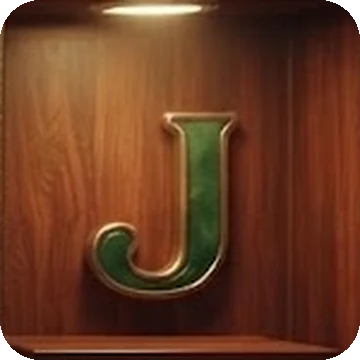
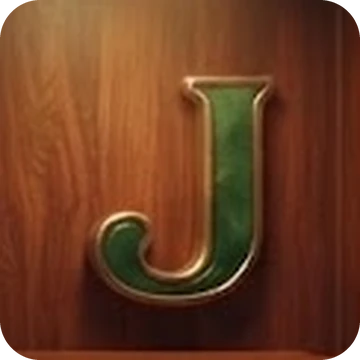
La Fortune : symboles recadrés, tas de pièces du Loup, rouleaux et bonus animés
- vignettes refaites : A K Q J centrés et plus grands, dragon / enveloppe / chats / lingots / lanterne entiers au
  centre avec leur décor flouté autour (IMG_V 2)
- le tas du bol empile la pièce d'or du Loup (assets/games/wolf/coin.webp)
- rouleaux plus longs (Reels : option durK), lueur dorée pendant le tour, flash à l'arrêt, poussière d'or
- Hold & Spin : chaque case vide devient un petit rouleau qui défile puis s'arrête colonne par colonne
- sw.js v30, affiche UPDATES

Claude-Session: https://claude.ai/code/session_017EaWtLoLTQhSDUGykommqC

diff --git a/games/fortune.js b/games/fortune.js
@@ -111,7 +111,7 @@ function startCoins(n = 6, R = Math.random) {
 /* ===END ENGINE */
 
 const BUY_HOLD = 46, BUY_MEGA = 245;
-const IMG_V = 1;
+const IMG_V = 2;
 const asset = (p) => window.__assets?.[p] || `${p}?v=${IMG_V}`; // single-file version: images are inlined
 const src = (n) => asset(`assets/games/fortune/${n}.webp`);
 const IMG = ['s0', 's1', 's2', 's3', 's4', 's5', 's6', 's7', 'wild', 'coin', 'scatter'];
@@ -123,18 +123,20 @@ const KEY = 'fortune_pots_v1';
 const load = () => { try { return JSON.parse(localStorage.getItem(KEY)) || {}; } catch { return {}; } };
 const save = (o) => { try { localStorage.setItem(KEY, JSON.stringify(o)); } catch { /* ignore */ } };
 
-// The pot drawn as a heap of gold coins in the bowl: the more it holds (in × the stake), the bigger the heap.
-function heapSVG(x) {
-  const n = x <= 0 ? 0 : Math.min(28, Math.round(3 + Math.sqrt(x) * 3.2));
+// The pot drawn as a heap of gold coins in the bowl (the gold coin of Le Loup, recycled): the more it holds
+// (in × the stake), the bigger the heap.
+const HEAP_COIN = asset('assets/games/wolf/coin.webp');
+function heapHTML(x) {
+  const n = x <= 0 ? 0 : Math.min(26, Math.round(3 + Math.sqrt(x) * 3));
   let s = '', k = 0;
   for (let row = 0; k < n; row++) {
-    const w = Math.max(1, 7 - row);
+    const w = Math.max(1, 6 - row);
     for (let j = 0; j < w && k < n; j++, k++) {
-      const cx = 50 + (j - (w - 1) / 2) * 12 + (row % 2 ? 3 : -3), cy = 92 - row * 7;
-      s += `<g transform="translate(${cx.toFixed(1)} ${cy})"><ellipse rx="7" ry="3.4" fill="#a16207"/><ellipse ry="3.4" rx="7" cy="-1.6" fill="url(#ftCoin)"/><rect x="-1.6" y="-3" width="3.2" height="2.4" fill="#92400e" opacity=".7"/></g>`;
+      const left = 50 + (j - (w - 1) / 2) * 15 + (row % 2 ? 4 : -4), bottom = row * 11, rot = ((k * 37) % 50) - 25;
+      s += `<img src="${HEAP_COIN}" alt="" draggable="false" style="left:${left.toFixed(1)}%;bottom:${bottom}%;transform:translateX(-50%) rotate(${rot}deg) scaleY(${(0.62 + (k % 3) * 0.08).toFixed(2)})">`;
     }
   }
-  return `<svg viewBox="0 0 100 100" preserveAspectRatio="xMidYMax meet" aria-hidden="true"><defs><linearGradient id="ftCoin" x1="0" y1="0" x2="1" y2="1"><stop offset="0" stop-color="#fff7d6"/><stop offset=".45" stop-color="#facc15"/><stop offset="1" stop-color="#b45309"/></linearGradient></defs>${s}</svg>`;
+  return s;
 }
 
 class FortuneGame extends BaseGame {
@@ -148,6 +150,7 @@ class FortuneGame extends BaseGame {
           <div class="ft-bowl"><div class="ft-heap"></div><b class="ft-pot"></b></div>
           <div class="ft-win"><div class="reels-host"></div><div class="ft-rows">${[0, 1, 2].map((r) => `<i data-row="${r}"></i>`).join('')}</div></div>
           <div class="ft-word"></div>
+          <div class="ft-dust">${Array.from({ length: 18 }, (_, k) => `<i style="left:${(k * 53) % 100}%;--dx:${((k * 29) % 60) - 30}px;animation-duration:${6 + (k % 5) * 1.7}s;animation-delay:-${(k * 1.3) % 9}s"></i>`).join('')}</div>
         </div></div>`,
       buys: [
         { id: 'hold', icon: '🪙', label: 'Hold & Spin · 6 pièces', desc: '6 pièces d’or verrouillées, 3 respins · MAJOR et JACKPOT en jeu · lignes ×2 et ×5', cost: (b) => b * BUY_HOLD },
@@ -157,7 +160,7 @@ class FortuneGame extends BaseGame {
     });
     this.vals = {}; this.mul = {};
     this.reels = new Reels(this.q('.reels-host'), {
-      cols: COLS, rows: ROWS, game: this, random: (c) => this.filler(c),
+      cols: COLS, rows: ROWS, game: this, random: (c) => this.filler(c), durK: 1.45,
       art: (v, i) => this.cellArt(v, i),
       cls: (v) => (v === COIN ? 'coin' : v === SCAT ? 'scat' : v === WILD ? 'wild' : v === BLANK ? 'blank' : `n${v}`),
     });
@@ -198,7 +201,7 @@ class FortuneGame extends BaseGame {
     }
     const potEl = this.q('.ft-pot'), heap = this.q('.ft-heap');
     if (potEl) potEl.textContent = me.pot > 0 ? fmtC(me.pot) : '';
-    if (heap) { const h = heapSVG(me.pot / this.bet); if (heap.dataset.h !== h) { heap.dataset.h = h; heap.innerHTML = h; } }
+    if (heap) { const h = heapHTML(me.pot / this.bet); if (heap.dataset.h !== h) { heap.dataset.h = h; heap.innerHTML = h; } }
   }
 
   word(t, cls = '') {
@@ -303,19 +306,7 @@ class FortuneGame extends BaseGame {
     await this.wait(600);
     for (const st of run.steps) {
       if (this.dead) return 0;
-      // empty cells shimmer, then the new coins drop in
-      this.reels.el.classList.add('ft-rolling'); sfx.spin?.();
-      await this.wait(this.turbo ? 380 : 700);
-      this.reels.el.classList.remove('ft-rolling');
-      for (const a of st.add) {
-        this.vals[a.i] = a.v; this.mul[a.i] = a.m;
-        this.reels.set(a.i, COIN);
-        const n = this.reels.cell(a.i);
-        n?.animate([{ transform: 'translateY(-120%) scale(.6)', opacity: 0 }, { transform: 'none', opacity: 1 }], { duration: 380, easing: 'cubic-bezier(.3,1.5,.5,1)' });
-        sfx.coin(); const p = center(n); fx.burst(p.x, p.y, 14, GOLD, 6);
-        if (typeof a.v === 'string') { this.word(a.v === 'jackpot' ? 'JACKPOT !' : 'MAJOR !', a.v); this.flash(a.v === 'jackpot' ? 'rgba(239,68,68,.6)' : 'rgba(34,197,94,.5)'); sfx.jackpot(); this.q(`.ft-jp.${a.v}`)?.classList.add('hot'); await this.wait(900); }
-        await this.wait(this.turbo ? 90 : 180);
-      }
+      await this.respinRoll(st.add);
       if (st.light) await this.lightRow(st.light);
       shown = this.sumNow(b);
       banner(st.left);
@@ -359,6 +350,37 @@ class FortuneGame extends BaseGame {
     await this.celebrate(won, { summary: mega ? 'MÉGA BONUS' : 'HOLD & SPIN', stake: b });
     this.vals = {}; this.mul = {};
     return won;
+  }
+
+  // One respin: every empty cell becomes a little reel of coins and blanks that rolls, then the cells stop one
+  // column after the other, on a new coin (it drops in and shines) or on nothing.
+  async respinRoll(add) {
+    const empties = [];
+    for (let i = 0; i < N; i++) if (!(i in this.vals)) empties.push(i);
+    const strip = Array.from({ length: 8 }, (_, k) => (k % 3 === 1 ? img('coin', 'ft-img ft-coin') : '<i class="ft-dot"></i>')).join('');
+    empties.forEach((i) => { const n = this.reels.cell(i); if (n) n.innerHTML = `<div class="ft-mini"><div class="ft-ministrip" style="animation-delay:-${((i * 0.13) % 0.4).toFixed(2)}s">${strip}${strip}</div></div>`; });
+    sfx.spin?.();
+    const byI = Object.fromEntries(add.map((a) => [a.i, a]));
+    await this.wait(this.turbo ? 300 : 650);
+    for (let c = 0; c < COLS; c++) {
+      for (const i of empties.filter((x) => Math.floor(x / ROWS) === c)) {
+        const a = byI[i];
+        if (a) {
+          this.vals[a.i] = a.v; this.mul[a.i] = a.m;
+          this.reels.set(a.i, COIN);
+          const n = this.reels.cell(a.i);
+          n?.animate([{ transform: 'translateY(-60%)', filter: 'blur(3px)' }, { transform: 'translateY(8%)', filter: 'none', offset: 0.7 }, { transform: 'none' }], { duration: 320, easing: 'ease-out' });
+          n?.classList.add('ft-new'); setTimeout(() => n?.classList.remove('ft-new'), 1200);
+          sfx.coin(); const p = center(n); fx.burst(p.x, p.y, 16, GOLD, 6);
+          if (typeof a.v === 'string') { this.word(a.v === 'jackpot' ? 'JACKPOT !' : 'MAJOR !', a.v); this.flash(a.v === 'jackpot' ? 'rgba(239,68,68,.6)' : 'rgba(34,197,94,.5)'); sfx.jackpot(); this.q(`.ft-jp.${a.v}`)?.classList.add('hot'); await this.wait(900); }
+        } else {
+          this.reels.set(i, BLANK);
+          this.reels.cell(i)?.animate([{ transform: 'translateY(-14%)' }, { transform: 'none' }], { duration: 200, easing: 'ease-out' });
+        }
+      }
+      sfx.reelStop?.(c);
+      await this.wait(this.turbo ? 90 : 190);
+    }
   }
 
   startMul(run, i) { return run.mul[i] ? this.firstOf(run, i) : 1; }

diff --git a/index.html b/index.html
@@ -8115,6 +8115,7 @@ __mods['updates.js'] = (() => {
 const { getGame } = __mods['games/index.js'];
 
 const UPDATES = [
+  { game: 'fortune', date: '2026-11-02', title: 'La Fortune plus vivante', items: ['Symboles recadrés : lettres, dragon, enveloppe, chats, lingots et lanterne bien centrés', 'Rouleaux qui défilent plus longtemps, avec une lueur dorée et un flash à chaque arrêt', 'Pendant le Hold & Spin, chaque case vide est un petit rouleau qui défile', 'Un vrai tas de pièces d’or dans le bol, et de la poussière d’or qui tombe'] },
   { game: 'fortune', date: '2026-11-02', title: 'Nouveau : La Fortune', isNew: true, items: ['Le nouvel an chinois : lanternes, dragon d’or WILD et 243 façons de gagner', 'Les pièces d’or montent dans le bol : le tas de pièces grandit jusqu’au prochain bonus', '6 pièces = HOLD & SPIN, avec les jackpots MAJOR et JACKPOT qui grimpent à chaque spin', 'Des lignes s’allument ×2 ou ×5 pendant le bonus', '4 scatters = MÉGA BONUS : chaque pièce vaut ×2 à ×5'] },
   { game: 'madwheel-online', date: '2026-11-02', title: 'Nouveau : La Roue Folle Online', isNew: true, items: ['La Roue Folle en multijoueur', 'Pose tes jetons et appuie sur PRÊT : la roue part quand tout le salon est prêt', 'Le Top Slot et les 4 bonus sont les mêmes pour tout le monde', 'Les mises et les gains des autres joueurs, et le chat du salon'] },
   { game: 'plateau-online', date: '2026-11-02', title: 'Nouveau : Le Plateau Online', isNew: true, items: ['Le Plateau en multijoueur', 'Pose tes jetons et appuie sur PRÊT : la roue part quand tout le salon est prêt', 'La case Chance et les dés du plateau sont les mêmes pour tout le monde', 'Les mises et les gains des autres joueurs, et le chat du salon'] },
@@ -10225,8 +10226,8 @@ __mods['core/reels.js'] = (() => {
 const { sfx } = __mods['audio.js'];
 
 class Reels {
-  constructor(host, { cols, rows, art, cls = () => '', random, game }) {
-    Object.assign(this, { cols, rows, art, clsOf: cls, random, game });
+  constructor(host, { cols, rows, art, cls = () => '', random, game, durK = 1 }) {
+    Object.assign(this, { cols, rows, art, clsOf: cls, random, game, durK });
     this.el = document.createElement('div');
     this.el.className = 'rs';
     this.el.style.setProperty('--cols', cols);
@@ -10258,7 +10259,7 @@ class Reels {
 
   async spin(vals, { tease = () => false, onStop = null } = {}) {
     const t = this.game?.turbo;
-    const base = t ? 300 : 620, step = t ? 70 : 160;
+    const base = (t ? 300 : 620) * this.durK, step = (t ? 70 : 160) * this.durK;
     let extra = 0;
     const jobs = [];
     for (let c = 0; c < this.cols; c++) {
@@ -10794,7 +10795,7 @@ const FILES = {
   vortex: ['vortex', 'games/impl/vortex.js', 'VortexGame', 'e23f21079d'],
   casse: ['casse', 'games/impl/casse.js', 'CasseGame', '0957d49ca3'],
   labo: ['labo', 'games/impl/labo.js', 'LaboGame', 'e6287e4258'],
-  fortune: ['fortune', 'games/impl/fortune.js', 'FortuneGame', '65c2e7e09f'],
+  fortune: ['fortune', 'games/impl/fortune.js', 'FortuneGame', 'bb85af3fad'],
   dragons: ['dragons', 'games/impl/dragons.js', 'DragonsGame', '2fcc40562a'],
   billets: ['billets', 'games/impl/billets.js', 'BilletsGame', '9f2d36628a'],
   taco: ['taco', 'games/impl/taco.js', 'PizzaGame', '171e756bb8'],
@@ -13520,8 +13521,23 @@ h1, h2, h3 { letter-spacing: -.01em; }
 .ft-cv.jp { top: auto; bottom: 2%; transform: translateX(-50%); font-size: calc(12cqh / var(--rows)); }
 .ft-m { position: absolute; right: 8%; top: 6%; padding: 0 .35em; border-radius: 3px; background: #dc2626; border: 1px solid #fde68a; font: 900 calc(12cqh / var(--rows)) KeCoin, Archivo, sans-serif; color: #fff; font-style: normal; }
 .rs-cell.blank { background: radial-gradient(circle, rgba(250, 204, 21, .06), transparent 70%); }
-.ft-rolling .rs-cell.blank { animation: ftRoll .35s ease-in-out infinite alternate; }
-@keyframes ftRoll { to { background: radial-gradient(circle, rgba(250, 204, 21, .3), transparent 70%); } }
+.ft-mini { position: absolute; inset: 6%; overflow: hidden; border-radius: 8px; background: linear-gradient(180deg, rgba(0, 0, 0, .55), rgba(60, 10, 0, .35), rgba(0, 0, 0, .55)); box-shadow: inset 0 0 0 1px rgba(250, 204, 21, .35); }
+.ft-ministrip { display: flex; flex-direction: column; align-items: center; animation: ftMini .38s linear infinite; filter: blur(1.5px); }
+.ft-ministrip > * { flex: 0 0 auto; height: calc(84cqh / var(--rows)) !important; display: grid; place-items: center; margin-bottom: 6%; }
+.ft-ministrip .ft-dot { width: 22%; aspect-ratio: 1; border-radius: 50%; background: rgba(250, 204, 21, .18); height: auto !important; margin: 34% 0; }
+@keyframes ftMini { to { transform: translateY(-50%); } }
+.rs-cell.ft-new .ft-img { box-shadow: 0 0 0 3px #fff7d6, 0 0 30px rgba(253, 224, 71, 1); }
+/* La Fortune: livelier reels (gold glow while they spin, a flash when one stops) and gold dust over the scene */
+.g-fortune .rs-reel.spinning { box-shadow: inset 0 0 30px rgba(250, 204, 21, .35), 0 0 18px rgba(250, 204, 21, .25); }
+.g-fortune .rs-reel.spinning .rs-strip { filter: blur(3px) brightness(1.15) saturate(1.2); }
+.g-fortune .rs-reel.landed::after { display: block; content: ''; position: absolute; inset: 0; z-index: 3; pointer-events: none; background: linear-gradient(180deg, transparent, rgba(255, 236, 160, .45), transparent); animation: ftLand .45s ease-out forwards; }
+@keyframes ftLand { from { opacity: 1; transform: translateY(-30%); } to { opacity: 0; transform: translateY(30%); } }
+.ft-dust { position: absolute; inset: 0; z-index: 3; pointer-events: none; overflow: hidden; }
+.ft-dust i { position: absolute; top: -4%; width: .5cqw; aspect-ratio: 1; border-radius: 50%; background: radial-gradient(circle, #fff7d6, #facc15 60%, transparent 70%); opacity: .8; animation: ftDust linear infinite; }
+@keyframes ftDust { to { transform: translate(var(--dx), 110cqh) rotate(360deg); opacity: .1; } }
+.ft-heap img { position: absolute; width: 20%; aspect-ratio: 1; filter: drop-shadow(0 2px 2px rgba(0, 0, 0, .5)); }
+.ft-art { container-type: size; }
+@media (prefers-reduced-motion: reduce) { .ft-dust, .ft-ministrip { animation: none; } }
 .rs-cell.counted .ft-img { box-shadow: 0 0 0 3px #fde047, 0 0 22px rgba(253, 224, 71, .9); }
 .ft-rows { position: absolute; inset: 0; display: grid; grid-template-rows: repeat(3, 1fr); pointer-events: none; z-index: 2; }
 .ft-rows i { display: grid; place-items: center; font: 900 6cqw 'Bebas Neue', Impact, sans-serif; color: #fff; font-style: normal; opacity: 0; transition: opacity .2s; }
@@ -13537,7 +13553,6 @@ h1, h2, h3 { letter-spacing: -.01em; }
 @keyframes ftHot { to { transform: scale(1.12); filter: brightness(1.5); } }
 .ft-bowl { position: absolute; left: 43.4%; top: 1%; width: 13.2%; height: 27.3%; }
 .ft-heap { position: absolute; left: 6%; right: 6%; bottom: 31%; height: 70%; }
-.ft-heap svg { width: 100%; height: 100%; display: block; filter: drop-shadow(0 0 6px rgba(253, 224, 71, .6)); }
 .ft-pot { position: absolute; left: 50%; bottom: 5%; transform: translateX(-50%); padding: .1em .5em; border-radius: 3px; background: rgba(60, 10, 0, .75); border: 1px solid #facc15;
   font: 900 1.25cqw KeCoin, Archivo, sans-serif; color: #fde047; white-space: nowrap; }
 .ft-pot:empty { display: none; }

diff --git a/sw.js b/sw.js
@@ -1,6 +1,6 @@
 // SpinBet Casino service worker: makes the site installable and opens it even on a weak connection.
 // Pages are network-first (updates show up right away), the app's own images are cache-first.
-const CACHE = 'spinbet-v29';
+const CACHE = 'spinbet-v30';
 const CORE = ['./', './index.html', './manifest.webmanifest', './assets/icon-192.png', './assets/icon-512.png'];
 
 self.addEventListener('install', (e) => {
